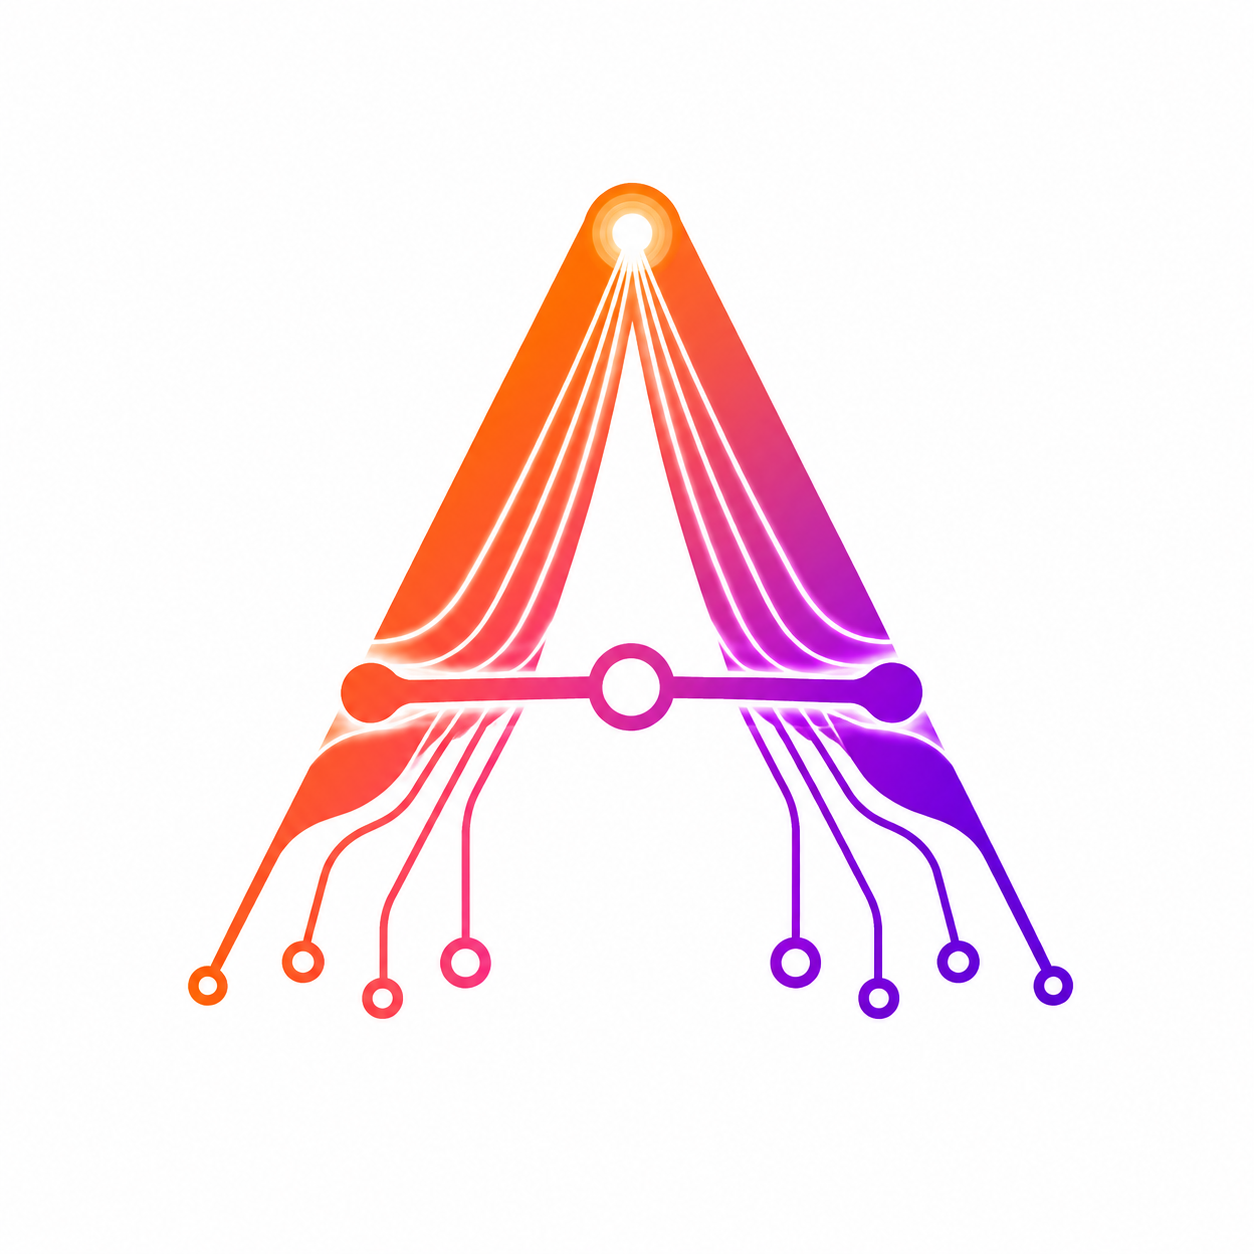
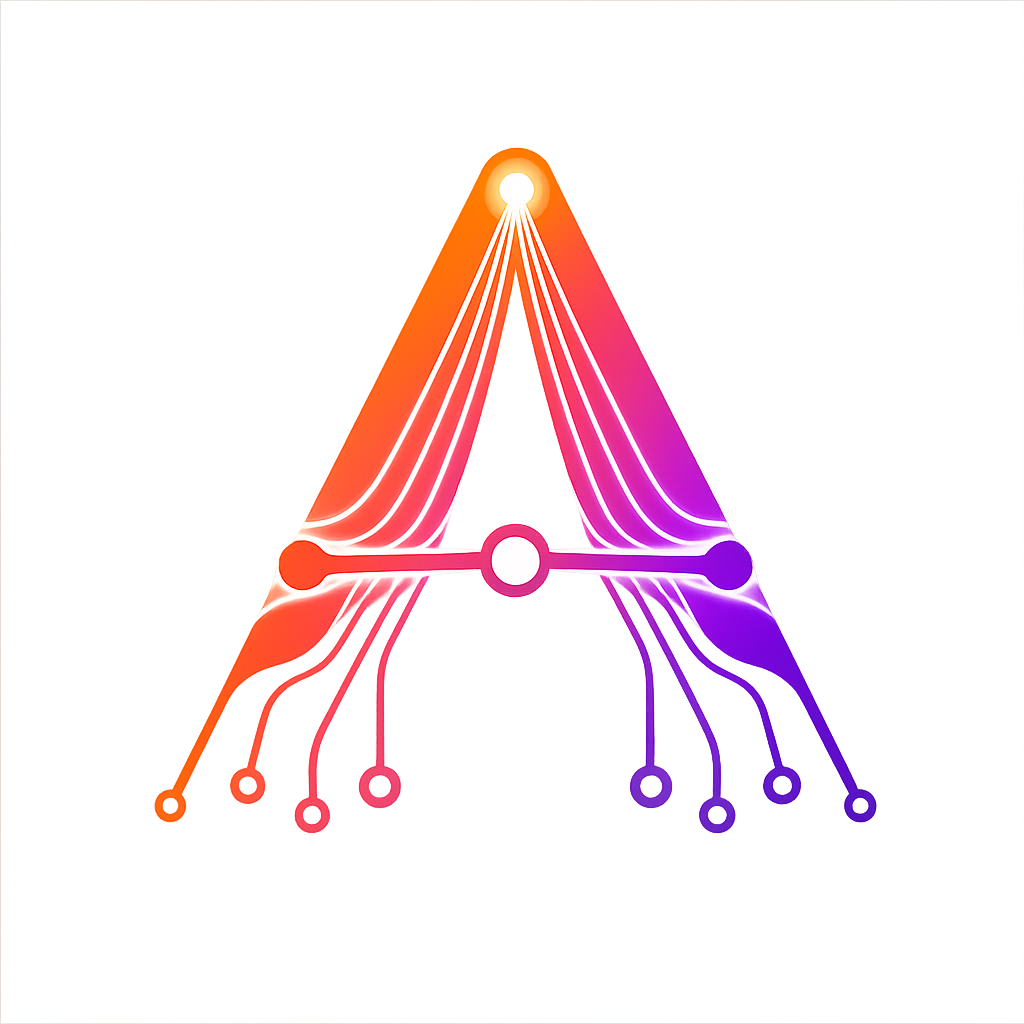
docs: 美化 README 头部布局

diff --git a/README.md b/README.md
@@ -1,7 +1,17 @@
+<div align="center">
+
+![Aequi](/icon.png)
+
 # Aequi
 
-[![License: MIT](https://img.shields.io/badge/License-MIT-yellow.svg)](https://opensource.org/licenses/MIT)
-![Rust](https://img.shields.io/badge/Rust-2021-orange)
+  <p align="center">
+
+  [![License: MIT](https://img.shields.io/badge/License-MIT-yellow.svg)](https://opensource.org/licenses/MIT)
+
+  ![Rust](https://img.shields.io/badge/Rust-2021-orange)
+  
+  </p>
+</div>
 
 高性能 OpenAI 格式 API 透明代理，Rust + Tokio 编写。支持多上游多密钥负载均衡、智能故障转移、计费管理、管理后台和实时监控。
 